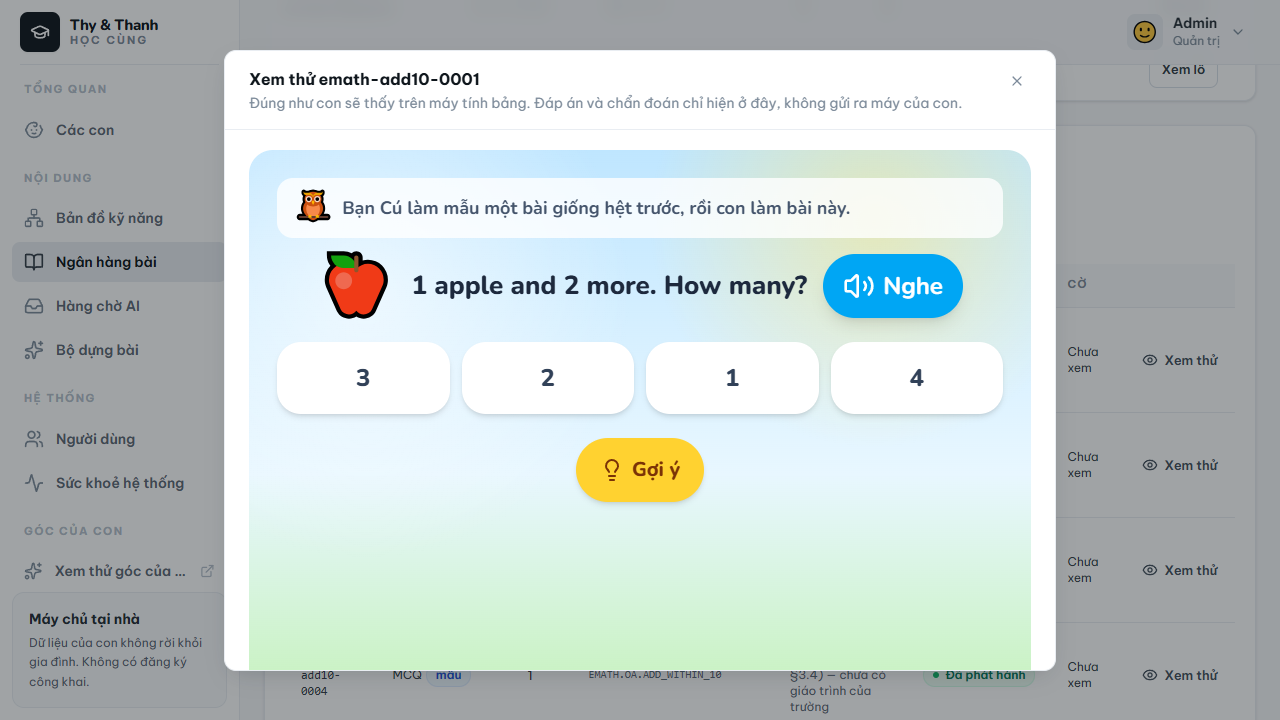
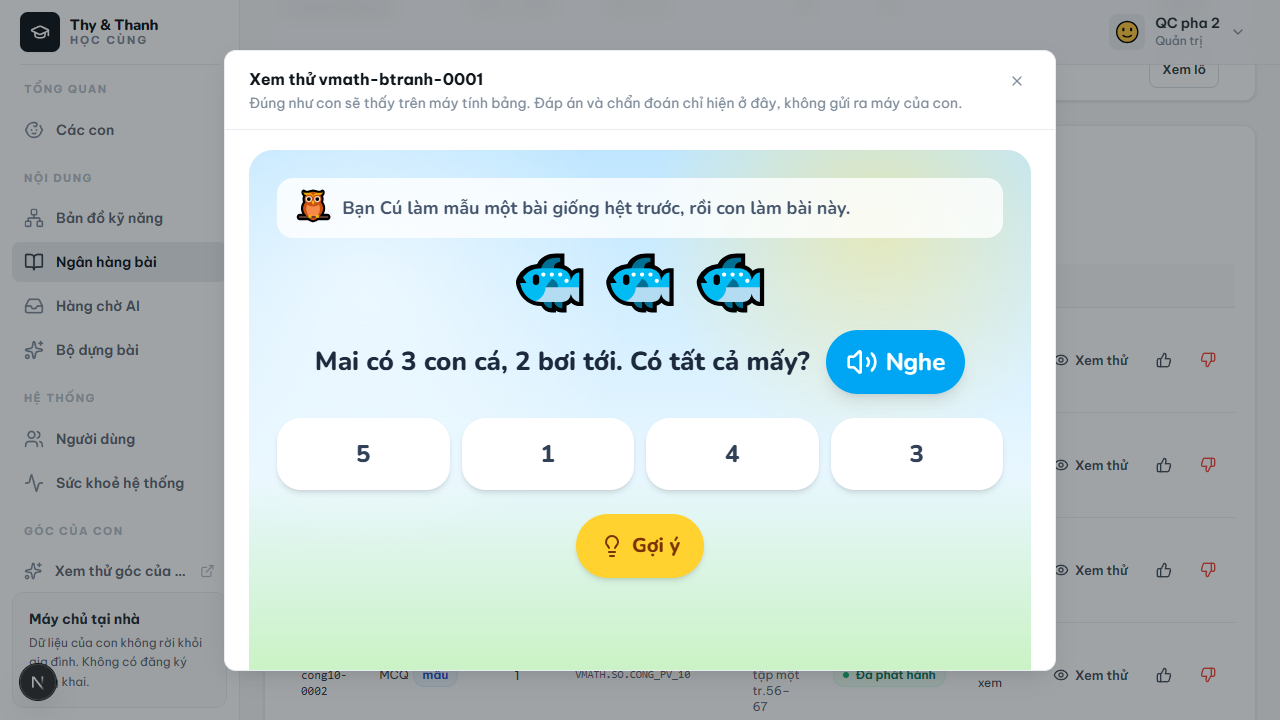
fix(db): an exercise that returns to the files stops being retired
Retiring on the way out was right; never coming back was not. An exercise whose stableId left the
files and later returned stayed RETIRED for ever, because the importer skipped it as "unchanged"
whenever its text had not changed — sixty exercises of batch 1 were invisible that way.

A returning exercise is now revived on the same row (so the Attempt and Evidence a child already
produced still point at it) and comes back as DRAFT rather than straight to PUBLISHED: content that
left and came back deserves another look before a child meets it. `content:import` reports the
count as its own column.

diff --git a/packages/db/src/content/import.ts b/packages/db/src/content/import.ts
@@ -79,10 +79,12 @@ export interface ExerciseImportResult {
   updated: number;
   unchanged: number;
   retired: number;
+  /** Exercises that had been retired and are back in the files — returned to DRAFT for review. */
+  revived: number;
   skipped: { stableId: string; reason: string }[];
   batchId: string | null;
   /** Filled in dry-run mode so the operator sees exactly what would change. */
-  plan: { stableId: string; action: "create" | "update" | "retire" }[];
+  plan: { stableId: string; action: "create" | "update" | "retire" | "revive" }[];
 }
 
 export interface LessonImportResult {
@@ -126,6 +128,7 @@ export async function importExercises(
     updated: 0,
     unchanged: 0,
     retired: 0,
+    revived: 0,
     skipped: [],
     batchId: null,
     plan: [],
@@ -140,7 +143,7 @@ export async function importExercises(
     (
       await db.exercise.findMany({
         where: { stableId: { in: rows.map((r) => r.stableId) } },
-        select: { id: true, stableId: true, contentHash: true },
+        select: { id: true, stableId: true, contentHash: true, status: true },
       })
     ).map((e) => [e.stableId, e]),
   );
@@ -167,6 +170,8 @@ export async function importExercises(
   for (const row of rows) {
     const known = existing.get(row.stableId);
     if (!known) result.plan.push({ stableId: row.stableId, action: "create" });
+    else if (known.status === "RETIRED")
+      result.plan.push({ stableId: row.stableId, action: "revive" });
     else if (known.contentHash !== row.contentHash)
       result.plan.push({ stableId: row.stableId, action: "update" });
   }
@@ -176,6 +181,7 @@ export async function importExercises(
     for (const row of rows) {
       const known = existing.get(row.stableId);
       if (!known) result.created++;
+      else if (known.status === "RETIRED") result.revived++;
       else if (known.contentHash !== row.contentHash) result.updated++;
       else result.unchanged++;
     }
@@ -190,7 +196,11 @@ export async function importExercises(
       continue;
     }
     const known = existing.get(row.stableId);
-    if (known && known.contentHash === row.contentHash) {
+    // An exercise that comes back into the files must stop being retired, even when its text did
+    // not change — otherwise it stays invisible for ever. It returns as DRAFT so a parent looks
+    // at it again before a child meets it.
+    const revived = known?.status === "RETIRED";
+    if (known && !revived && known.contentHash === row.contentHash) {
       result.unchanged++;
       continue;
     }
@@ -216,7 +226,7 @@ export async function importExercises(
     const saved = await db.exercise.upsert({
       where: { stableId: row.stableId },
       create: { stableId: row.stableId, ...data },
-      update: data,
+      update: revived ? { ...data, status: "DRAFT" as const } : data,
     });
     await db.exerciseSkill.deleteMany({ where: { exerciseId: saved.id } });
     await db.exerciseSkill.createMany({
@@ -227,7 +237,8 @@ export async function importExercises(
       })),
       skipDuplicates: true,
     });
-    if (known) result.updated++;
+    if (revived) result.revived++;
+    else if (known) result.updated++;
     else result.created++;
   }
 

diff --git a/packages/db/src/content/import.test.ts b/packages/db/src/content/import.test.ts
@@ -219,6 +219,23 @@ describe("content importer (integration, needs the seeded database)", () => {
     expect(gone?.status).toBe("RETIRED");
   });
 
+  it("brings a retired exercise back as DRAFT when it returns to the files", async (ctx) => {
+    needDb(ctx);
+    const db = testDb();
+    const gone = await db.exercise.findUniqueOrThrow({ where: { stableId: `${PREFIX}-0005` } });
+    expect(gone.status).toBe("RETIRED");
+    // Same text as before — the hash has not changed, so only the status tells it came back.
+    const result = await importExercises(db, [row(5)], {
+      sourceDir: "itest",
+      retireMissing: false,
+    });
+    expect(result.revived).toBe(1);
+    expect(result.unchanged).toBe(0);
+    const back = await db.exercise.findUniqueOrThrow({ where: { stableId: `${PREFIX}-0005` } });
+    expect(back.id).toBe(gone.id); // same row, so the old Evidence still points at it
+    expect(back.status).toBe("DRAFT"); // a parent looks at it again before a child meets it
+  });
+
   it("never writes a child's learning data (docs/10 §11)", async (ctx) => {
     needDb(ctx);
     const db = testDb();

diff --git a/packages/db/src/cli/content-import.ts b/packages/db/src/cli/content-import.ts
@@ -84,8 +84,8 @@ async function main() {
     retireMissing: true,
   });
   console.log(
-    `exercises: ${result.created} new, ${result.updated} updated, ${result.unchanged} unchanged, ` +
-      `${result.retired} retired` +
+    `exercises: ${result.created} new, ${result.updated} updated, ${result.revived} revived, ` +
+      `${result.unchanged} unchanged, ${result.retired} retired` +
       (result.batchId ? ` — batch ${result.batchId}` : ""),
   );
   for (const s of result.skipped) console.warn(`  WARN ${s.stableId}: ${s.reason}`);
